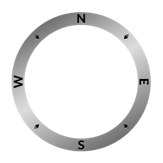
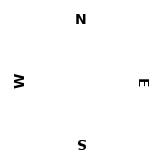
Changed UI color values to schools pantone colors. Updated radar image. Left some comments in limitingrange.js, there were some ways I was trying to recursively fetch data.

Changed region(s): [[0.0613, 0.0613, 0.9509, 0.9509]]

diff --git a/wikitude-sdk-samples/src/main/assets/samples/10_BrowsingPois_3_LimitingRange/js/limitingrange.js b/wikitude-sdk-samples/src/main/assets/samples/10_BrowsingPois_3_LimitingRange/js/limitingrange.js
@@ -3,6 +3,7 @@
     places near given location.
  */
 var ServerInformation = {
+    // POIDATA_SERVER: "https://www.cs.csub.edu/~rortiz/test/convertedData.json",
     POIDATA_SERVER: "https://example.wikitude.com/GetSamplePois/",
     POIDATA_SERVER_ARG_LAT: "lat",
     POIDATA_SERVER_ARG_LON: "lon",
@@ -69,7 +70,28 @@ var World = {
                 "altitude": parseFloat(poiData[currentPlaceNr].altitude),
                 "title": poiData[currentPlaceNr].name,
                 "description": poiData[currentPlaceNr].description
+
+                /*
+                for (var i = 0; i < poiData[currentPlaceNr].description.length; i++) {
+                    "description": poiData[currentPlaceNr].description[i];
+                }
+
+
+
+               "description": poiData[currentPlaceNr].description[0],
+                 "description": poiData[currentPlaceNr].description[1]
+               //"description": poiData[currentPlaceNr].description.room1,
+               //"description": poiData[currentPlaceNr].description.room2
+               */
             };
+
+/*
+                var x = "";
+                for (var i = 0; singlePoi.poiData[currentPlaceNr].description.length; i++) {
+                    singlePoi.poiData[currentPlaceNr].description[] += singlePoi.poiData[currentPlaceNr].description[i]
+                }
+                /*
+                */
 
             World.markerList.push(new Marker(singlePoi));
         }
